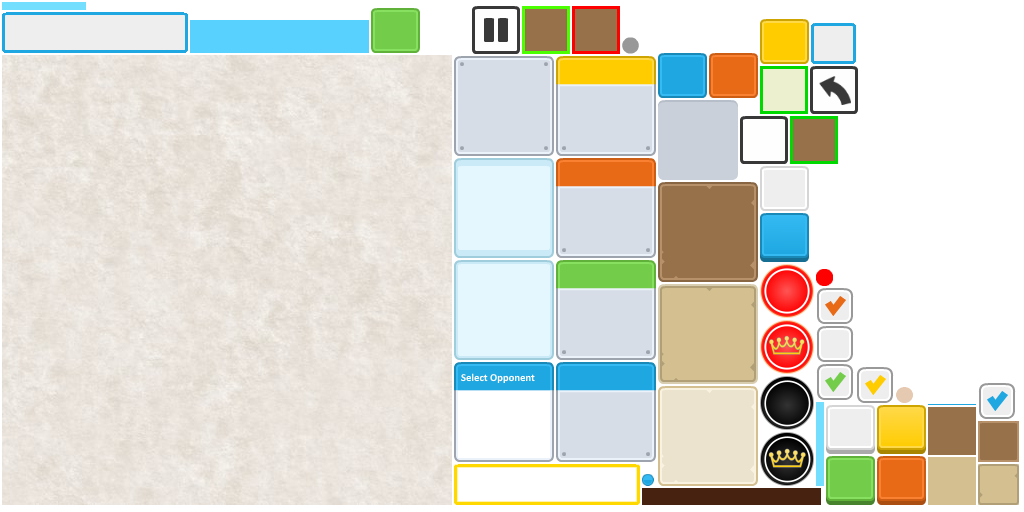
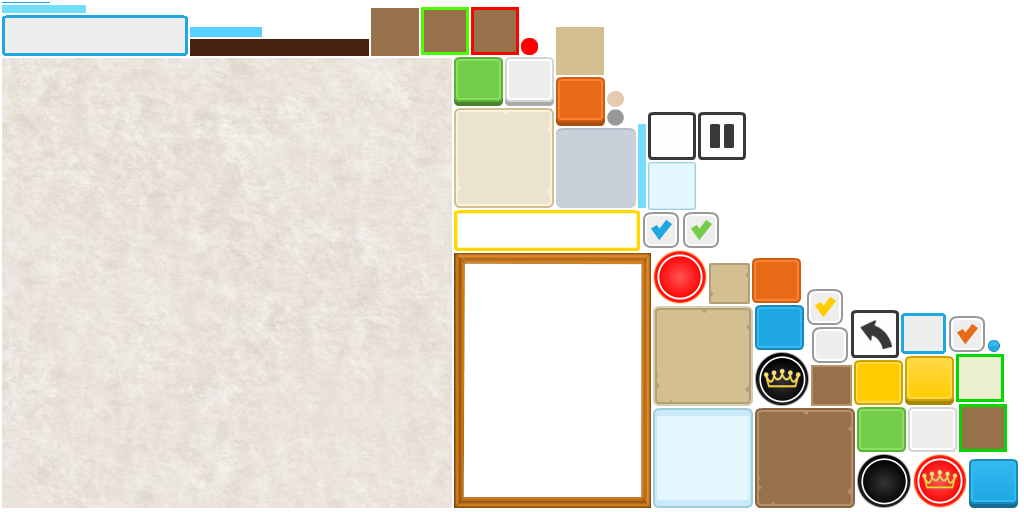
ui-change, level changes

diff --git a/core/src/com/pennywise/checkers/screens/dialogs/HostScreen.java b/core/src/com/pennywise/checkers/screens/dialogs/HostScreen.java
@@ -1,0 +1,137 @@
+package com.pennywise.checkers.screens.dialogs;
+
+import com.badlogic.gdx.Gdx;
+import com.badlogic.gdx.scenes.scene2d.Actor;
+import com.badlogic.gdx.scenes.scene2d.ui.CheckBox;
+import com.badlogic.gdx.scenes.scene2d.ui.Label;
+import com.badlogic.gdx.scenes.scene2d.ui.TextButton;
+import com.badlogic.gdx.scenes.scene2d.ui.TextField;
+import com.badlogic.gdx.scenes.scene2d.utils.ChangeListener;
+import com.badlogic.gdx.utils.Align;
+import com.pennywise.Checkers;
+import com.pennywise.checkers.core.Constants;
+import com.pennywise.checkers.core.engine.Simple;
+import com.pennywise.checkers.core.persistence.Player;
+import com.pennywise.checkers.core.persistence.SaveUtil;
+import com.pennywise.checkers.screens.AbstractScreen;
+import com.pennywise.checkers.screens.MultiplayerScreen;
+import com.pennywise.managers.AudioManager;
+import com.pennywise.multiplayer.BluetoothInterface;
+
+
+public class HostScreen extends AbstractScreen {
+
+    public static final String LOG = HostScreen.class.getSimpleName();
+
+    private BluetoothInterface bluetoothInterface;
+
+    private Label infoLabel;
+    private TextField playerName;
+    private CheckBox redPlayer;
+    private CheckBox blackPlayer;
+    private TextButton backButton;
+    private TextButton hostButton;
+    private Label colorLabel;
+    private Label nameLabel;
+    private Player player;
+
+
+    public HostScreen(Checkers game) {
+        super(game);
+        bluetoothInterface = game.getBluetoothInterface();
+        game.setHost(true);
+        game.setMultiplayer(true);
+        player = SaveUtil.loadUserData(Constants.USER_FILE);
+    }
+
+    public Label getInfoLabel() {
+        return infoLabel;
+    }
+
+    public void setInfoLabel(Label infoLabel) {
+        this.infoLabel = infoLabel;
+    }
+
+    public TextButton getBackButton() {
+        return backButton;
+    }
+
+    public void setBackButton(TextButton backButton) {
+        this.backButton = backButton;
+    }
+
+    @Override
+    public void show() {
+
+
+        getTable().row();
+
+        infoLabel = new Label("", getSkin(), "black-text");
+        infoLabel.setAlignment(Align.center);
+        getTable().add(infoLabel).spaceBottom(15).left().colspan(2);
+        getTable().row();
+
+        hostButton = new TextButton("Start Hosting", getSkin());
+        getTable().add(hostButton).size(360, 70).center().colspan(2).uniform().spaceBottom(30);
+        hostButton.addListener(new ChangeListener() {
+            @Override
+            public void changed(ChangeEvent event, Actor actor) {
+                AudioManager.playClick();
+                //save player data
+                player.setName(bluetoothInterface.getName());
+                player.setHost(true);
+                player.setColor(Simple.BLACK);
+                SaveUtil.saveUserData(Constants.USER_FILE, player);
+                // Check if the Android device supports bluetooth.
+                if (bluetoothInterface.isBluetoothSupported()) {
+                    // Check if bluetooth is discoverable. If not, make it discoverable.
+                    // This will also enable it, if it is disabled.
+                    if (!bluetoothInterface.isBluetoothDiscoverable()) {
+                        Gdx.app.log(LOG, "isBluetoothDiscoverable = "
+                                + bluetoothInterface.isBluetoothDiscoverable());
+                        bluetoothInterface.enableBluetoothDiscoverability();
+                    } else {
+                        Gdx.app.log(LOG, "isBluetoothDiscoverable = "
+                                + bluetoothInterface.isBluetoothDiscoverable());
+                        backButton.setVisible(true);
+                        bluetoothInterface.startConnectionListening();
+                    }
+                }
+                // The Android device does not support bluetooth.
+                else {
+                    infoLabel
+                            .setText("Bluetooth not supported on this device.");
+                }
+            }
+        });
+
+        getTable().row();
+
+        backButton = new TextButton("Back", getSkin());
+        getTable().add(backButton).size(360, 70).center().colspan(2).uniform();
+        backButton.addListener(new ChangeListener() {
+            @Override
+            public void changed(ChangeEvent event, Actor actor) {
+                AudioManager.playClick();
+                bluetoothInterface.stopConnectionListening();
+                game.setScreen(new MultiplayerScreen(game));
+            }
+        });
+
+
+    }
+
+    public void dispose() {
+        super.dispose();
+        Gdx.app.log(LOG, "Disposing HostScreen");
+    }
+
+    @Override
+    public void keyBackPressed() {
+        super.keyBackPressed();
+
+        game.setScreen(new MultiplayerScreen(game));
+    }
+
+
+}

diff --git a/core/src/com/pennywise/checkers/screens/GameScreen.java b/core/src/com/pennywise/checkers/screens/GameScreen.java
@@ -2,6 +2,8 @@ package com.pennywise.checkers.screens;
 
 
 import com.badlogic.gdx.Gdx;
+import com.badlogic.gdx.Input;
+import com.badlogic.gdx.InputAdapter;
 import com.badlogic.gdx.InputMultiplexer;
 import com.badlogic.gdx.InputProcessor;
 import com.badlogic.gdx.graphics.Color;
@@ -198,6 +200,18 @@ public class GameScreen extends AbstractScreen implements InputProcessor, Multip
 
         Gdx.input.setCatchBackKey(true);
 
+        Gdx.input.setInputProcessor(new InputAdapter() {
+            @Override
+            public boolean keyUp(final int keycode) {
+                if (keycode == Input.Keys.BACK) {
+                    Gdx.app.log("Score", "Back");
+                    keyBackPressed();
+                }
+                return false;
+            }
+        });
+
+
         engine = new Simple();
 
     }
@@ -232,14 +246,14 @@ public class GameScreen extends AbstractScreen implements InputProcessor, Multip
         if (multiplayer) {
             if (player.isHost()) {
                 if (player.getColor() == Simple.BLACK) {
-                    blackName.setText(player.getName());
+                    blackName.setText("Me"/*player.getName()*/);
                     playerTurn = humanPlayer = Simple.BLACK;
                     humanTurn = true;
                 } else {
                     humanTurn = false;
                     playerTurn = Simple.BLACK;
                     humanPlayer = Simple.WHITE;
-                    whiteName.setText(player.getName());
+                    whiteName.setText("Me"/*player.getName()*/);
                 }
 
             } else {
@@ -251,7 +265,7 @@ public class GameScreen extends AbstractScreen implements InputProcessor, Multip
         } else {
             humanPlayer = playerTurn;
             whiteName.setText("Droid");
-            blackName.setText(player.getName().isEmpty() ? "Human" : player.getName());
+            blackName.setText("Me");
         }
 
         newGame();
@@ -455,7 +469,7 @@ public class GameScreen extends AbstractScreen implements InputProcessor, Multip
 
     private Group board(int rows, int cols) {
 
-        panel = new Panel(getSkin().getPatch("panel_brown"));
+        panel = new Panel(getSkin().getPatch("border"));
         panel.setTouchable(Touchable.childrenOnly);
 
         Label.LabelStyle style = new Label.LabelStyle();
@@ -766,11 +780,17 @@ public class GameScreen extends AbstractScreen implements InputProcessor, Multip
 
     @Override
     public boolean keyDown(int keycode) {
+
+
         return false;
     }
 
     @Override
     public boolean keyUp(int keycode) {
+        if (keycode == Input.Keys.BACK) {
+            Gdx.app.log("Score", "Back");
+            keyBackPressed();
+        }
         return false;
     }
 

diff --git a/core/src/com/pennywise/checkers/screens/JoinScreen.java b/core/src/com/pennywise/checkers/screens/JoinScreen.java
@@ -80,23 +80,25 @@ public class JoinScreen extends AbstractScreen {
     public void show() {
         infoLabel = new Label("", skin);
         infoLabel.setAlignment(Align.center);
-        getTable().add(infoLabel).colspan(3).spaceBottom(10).spaceTop(10);
+        getTable().padTop(60);
+        getTable().add(infoLabel).spaceBottom(5).spaceTop(5).colspan(2);
         getTable().row();
 
         // Empty list
         devicesList = new List(skin);
         devicesList.setItems(new Array<Object>());
+        devicesList.pack();
         devicesListScrollPane = new ScrollPane(devicesList, skin);
-        devicesListScrollPane.setOverscroll(false, false);
-        getTable().add(devicesListScrollPane).colspan(3).center()
-                .spaceBottom(30).maxWidth(480).maxHeight(560);
-        getTable().row();
+        devicesListScrollPane.setSize(Constants.GAME_WIDTH - 20, Constants.GAME_HEIGHT * 0.55f);
 
+        getTable().add(devicesListScrollPane).center().colspan(2)
+                .spaceBottom(5).width(Constants.GAME_WIDTH - 20).height(Constants.GAME_HEIGHT * 0.60f).expand();
+        getTable().row();
 
         scanButton = new TextButton("Scan", skin);
         scanButton.setVisible(false);
-        getTable().add(scanButton).size(150, 70).expand().bottom()
-                .padBottom(80).spaceLeft(5).spaceRight(5);
+        getTable().add(scanButton).size(220, 70).expand()
+                .padBottom(60).spaceLeft(5);
         scanButton.addListener(new ChangeListener() {
             @Override
             public void changed(ChangeEvent event, Actor actor) {
@@ -110,10 +112,11 @@ public class JoinScreen extends AbstractScreen {
             }
         });
 
+
         connectButton = new TextButton("Connect", skin);
         connectButton.setVisible(false);
-        getTable().add(connectButton).size(150, 70).expand().bottom()
-                .padBottom(80).spaceLeft(5).spaceRight(5);
+        getTable().add(connectButton).size(220, 70).expand()
+                .padBottom(60).spaceRight(5);
         connectButton.addListener(new ChangeListener() {
             @Override
             public void changed(ChangeEvent event, Actor actor) {
@@ -141,8 +144,7 @@ public class JoinScreen extends AbstractScreen {
 
         backButton = new TextButton("Back", skin);
         backButton.setVisible(false);
-        getTable().add(backButton).size(150, 70).expand().bottom()
-                .padBottom(80).spaceLeft(5).spaceRight(5);
+
         backButton.addListener(new ChangeListener() {
             @Override
             public void changed(ChangeEvent event, Actor actor) {

diff --git a/core/src/com/pennywise/checkers/screens/LevelScreen.java b/core/src/com/pennywise/checkers/screens/LevelScreen.java
@@ -1,5 +1,6 @@
 package com.pennywise.checkers.screens;
 
+import com.badlogic.gdx.Gdx;
 import com.badlogic.gdx.scenes.scene2d.Actor;
 import com.badlogic.gdx.scenes.scene2d.ui.Label;
 import com.badlogic.gdx.scenes.scene2d.ui.TextButton;
@@ -26,7 +27,7 @@ public class LevelScreen extends AbstractScreen {
     @Override
     public void show() {
         getTable().row();
-        welcomeLabel = new Label("Game Level", getSkin(),"title-text");
+        welcomeLabel = new Label("Straight Checkers", getSkin(),"title-text");
         getTable().add(welcomeLabel).spaceBottom(30);
         getTable().row();
 
@@ -81,17 +82,6 @@ public class LevelScreen extends AbstractScreen {
         });
 
         getTable().row();
-
-
-        final TextButton backButton = new TextButton("Back", getSkin());
-        getTable().add(backButton).size(360, 70).center().colspan(2).uniform();
-        backButton.addListener(new ChangeListener() {
-            @Override
-            public void changed(ChangeEvent event, Actor actor) {
-                AudioManager.playClick();
-                game.setScreen(new MenuScreen(game));
-            }
-        });
     }
 
     public void dispose() {
@@ -102,7 +92,7 @@ public class LevelScreen extends AbstractScreen {
     public void keyBackPressed() {
         super.keyBackPressed();
 
-        game.setScreen(new MenuScreen(game));
+        //game.setScreen(new MenuScreen(game));
     }
 
 }

diff --git a/core/src/com/pennywise/checkers/core/Constants.java b/core/src/com/pennywise/checkers/core/Constants.java
@@ -18,10 +18,10 @@ public class Constants {
     public static final float GAME_HEIGHT = SCREEN_HEIGHT / (SCREEN_WIDTH / GAME_WIDTH);
 
     //GAME LEVEL
-    public static final double NONE = 0.05;
-    public static final double EASY = 0.25;
-    public static final double NORMAL = 0.50;
-    public static final double HARD = 1.25;
+    public static final double NONE = 0.01;
+    public static final double EASY = 0.05;
+    public static final double NORMAL = 0.15;
+    public static final double HARD = 0.35;
 
     //GAME TYPE
     public static final int VSHUMAN = 11;

diff --git a/core/src/com/pennywise/Checkers.java b/core/src/com/pennywise/Checkers.java
@@ -6,6 +6,7 @@ import com.pennywise.checkers.core.Constants;
 import com.pennywise.checkers.screens.GameScreen;
 import com.pennywise.checkers.screens.HostScreen;
 import com.pennywise.checkers.screens.JoinScreen;
+import com.pennywise.checkers.screens.LevelScreen;
 import com.pennywise.checkers.screens.MenuScreen;
 import com.pennywise.checkers.screens.MultiplayerScreen;
 import com.pennywise.managers.AdManager;

diff --git a/core/src/com/pennywise/checkers/screens/AbstractScreen.java b/core/src/com/pennywise/checkers/screens/AbstractScreen.java
@@ -148,7 +148,7 @@ public abstract class AbstractScreen implements Screen {
     /**
      * Back button
      */
-    private void setBackBackButton() {
+    private void setBackButton() {
         uiStage.addListener(new InputListener() {
             @Override
             public boolean keyUp(InputEvent event, int keycode) {
